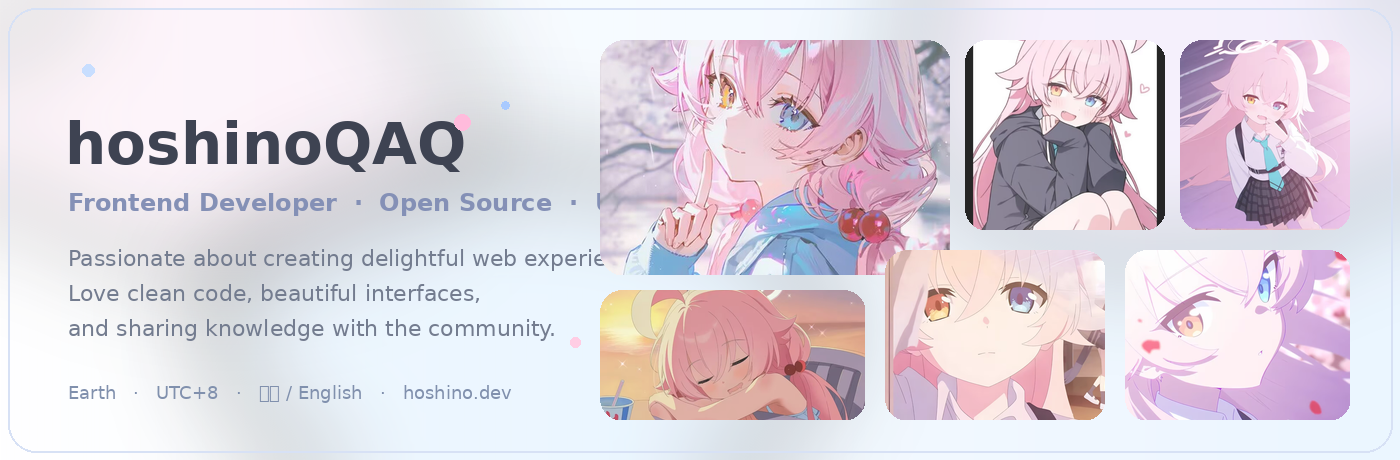
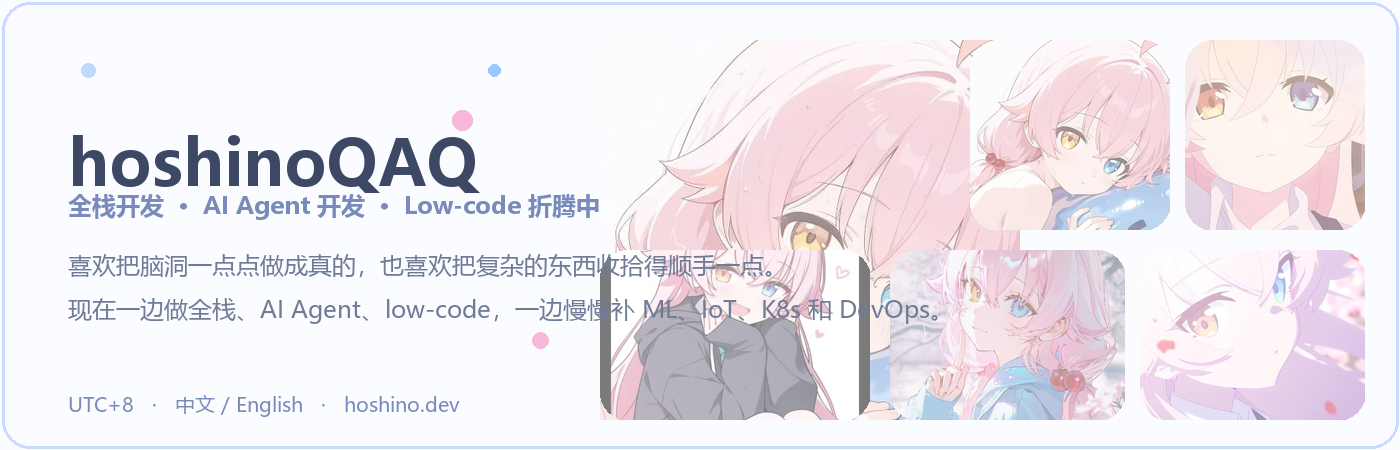
Rewrite profile copy in Chinese and remove quote card

diff --git a/README.md b/README.md
@@ -5,12 +5,12 @@
 <h1 align="center">hoshinoQAQ</h1>
 
 <p align="center">
-  <b>Full Stack Developer</b> · <b>AI Agent Developer</b> · <b>Low-code Builder</b>
+  <b>全栈开发</b> · <b>AI Agent 开发</b> · <b>Low-code 折腾中</b>
 </p>
 
 <p align="center">
-  Building full stack products, AI agent workflows, and low-code solutions.<br/>
-  Currently learning ML, IoT, K8s, and DevOps while shipping useful tools and clean experiences.
+  喜欢把脑洞一点点做成真的，也喜欢把复杂的东西收拾得顺手一点。<br/>
+  现在一边做全栈、AI Agent、low-code，一边慢慢补 ML、IoT、K8s 和 DevOps。
 </p>
 
 <p align="center">
@@ -29,7 +29,7 @@
 </p>
 
 <p align="center">
-  <img src="https://readme-typing-svg.demolab.com?font=Fira+Code&weight=500&size=22&duration=3200&pause=1000&color=6C7BEF&center=true&vCenter=true&width=720&height=42&lines=Build+soft+and+useful+web+experiences;Keep+learning%2C+keep+shipping;Make+interfaces+fresh%2C+clean%2C+and+kind" alt="Typing SVG" />
+  <img src="https://readme-typing-svg.demolab.com?font=Fira+Code&weight=500&size=22&duration=3200&pause=1000&color=6C7BEF&center=true&vCenter=true&width=720&height=42&lines=%E6%8A%8A%E6%83%B3%E6%B3%95%E5%81%9A%E6%88%90%E7%9C%9F%E7%9A%84%E4%B8%9C%E8%A5%BF;%E6%85%A2%E6%85%A2%E5%AD%A6%EF%BC%8C%E4%B9%9F%E6%85%A2%E6%85%A2%E5%81%9A;%E5%B7%A5%E5%85%B7%E3%80%81%E4%BA%A7%E5%93%81%E3%80%81%E8%87%AA%E5%8A%A8%E5%8C%96%E9%83%BD%E6%83%B3%E6%8A%98%E8%85%BE%E4%B8%80%E7%82%B9" alt="Typing SVG" />
 </p>
 
 ---
@@ -42,23 +42,22 @@
 
 <br/>
 
-**Profile**
+**个人小卡片**
 
-- 🌏 Earth · UTC+8
-- 🧭 Full Stack / AI Agent / Low-code
-- ✨ ML / IoT / K8s / DevOps learner
+- 🌏 坐标：UTC+8
+- 🧭 方向：全栈 / AI Agent / Low-code
+- ✨ 学习中：ML / IoT / K8s / DevOps
 - 🐱 GitHub: [`@hoshinoQAQ`](https://github.com/hoshinoQAQ)
 
 </td>
 <td width="72%" valign="top">
 
-## ✦ About Me
+## ✦ 关于我
 
-- 主要做全栈开发，也在持续做 AI Agent 和 low-code 相关的东西。
-- 喜欢把想法整理成能真正落地、能长期维护的产品和工具。
-- 关注 Web 工程化、交互体验、自动化工作流和实用型项目。
-- 现在正在学习 ML、IoT、K8s、DevOps，以及更多能和产品结合起来的新方向。
-- 希望把代码写得更稳，也把体验做得更自然。
+- 主要做全栈开发，也一直在折腾 AI Agent 和 low-code 相关的东西。
+- 比起只停在想法阶段，我更喜欢把它们慢慢做成真的，能跑、能用、还能继续迭代。
+- 平时会比较关注 Web 工程化、交互体验、自动化工作流，还有那些看起来很实用的小工具。
+- 现在也在慢慢补 ML、IoT、K8s 和 DevOps，希望以后能把这些东西串起来玩得更顺手一点。
 
 <br/>
 
@@ -73,7 +72,7 @@
 
 ---
 
-## ✦ Contribution Activity
+## ✦ 最近活跃
 
 <p align="center">
   <img src="https://github-readme-activity-graph.vercel.app/graph?username=hoshinoQAQ&bg_color=ffffff&color=59627a&line=8CB4FF&point=F7B7D9&area=true&area_color=CFE8FF&hide_border=true&custom_title=Recent%20Contribution%20Activity" alt="Activity Graph" width="100%" />
@@ -81,7 +80,7 @@
 
 ---
 
-## ✦ Tech Stack
+## ✦ 技术栈
 
 <p align="center">
   <img src="https://skillicons.dev/icons?i=js,ts,vue,react,go,python,nodejs&theme=light&perline=7" alt="Skill Icons" />
@@ -89,7 +88,7 @@
 
 ---
 
-## ✦ Pinned Repository
+## ✦ 精选仓库
 
 <p align="center">
   <a href="https://github.com/hoshinoQAQ/hoshinoQAQ">
@@ -99,7 +98,7 @@
 
 ---
 
-## ✦ Gallery
+## ✦ 小画廊
 
 <table>
 <tr>
@@ -112,12 +111,6 @@
 </tr>
 </table>
 
----
-
 <p align="center">
-  <img src="./assets/images/quote-card.png" alt="quote card" width="86%" />
-</p>
-
-<p align="center">
-  <sub>© 2026 hoshinoQAQ · Built with soft light, clean code, and lots of coffee.</sub>
+  <sub>© 2026 hoshinoQAQ · 慢慢写代码，也慢慢把喜欢的东西做出来。</sub>
 </p>
